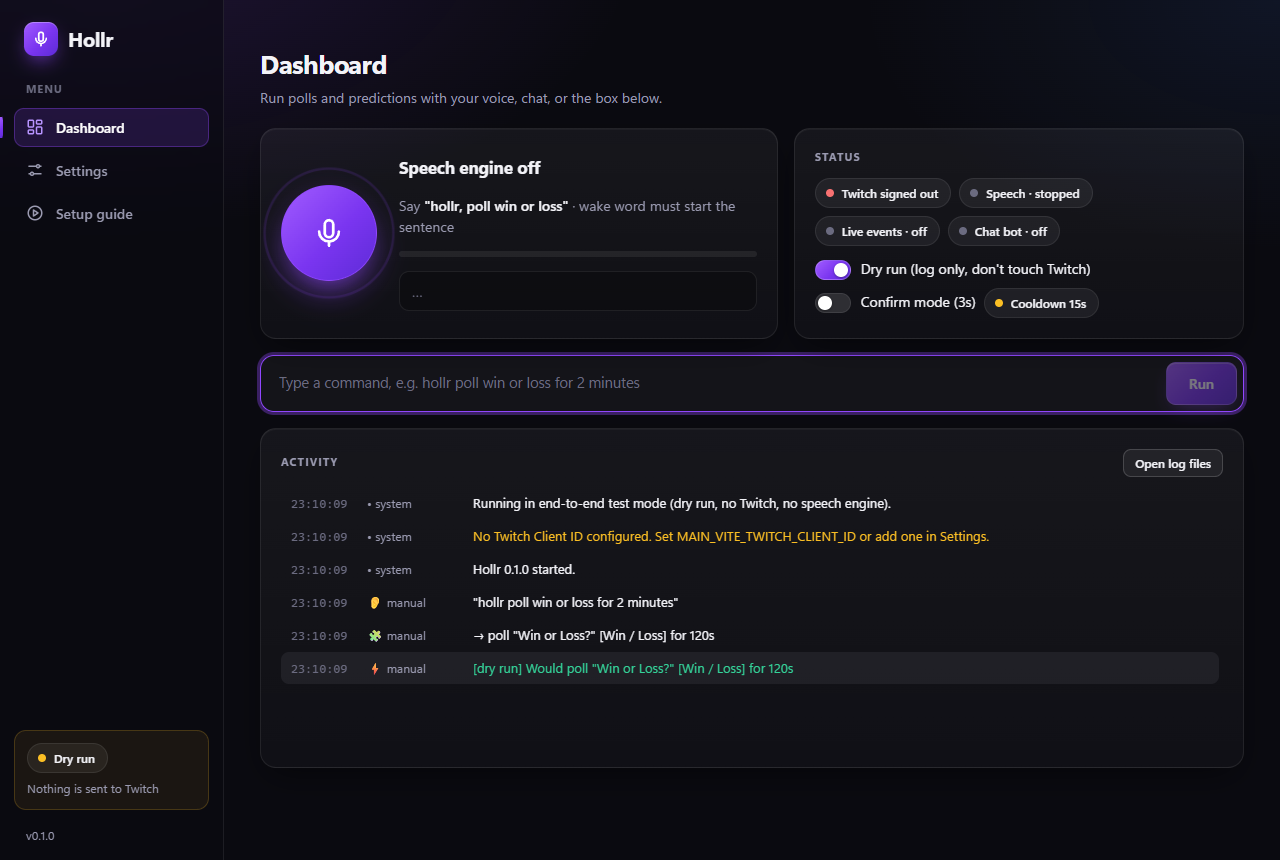
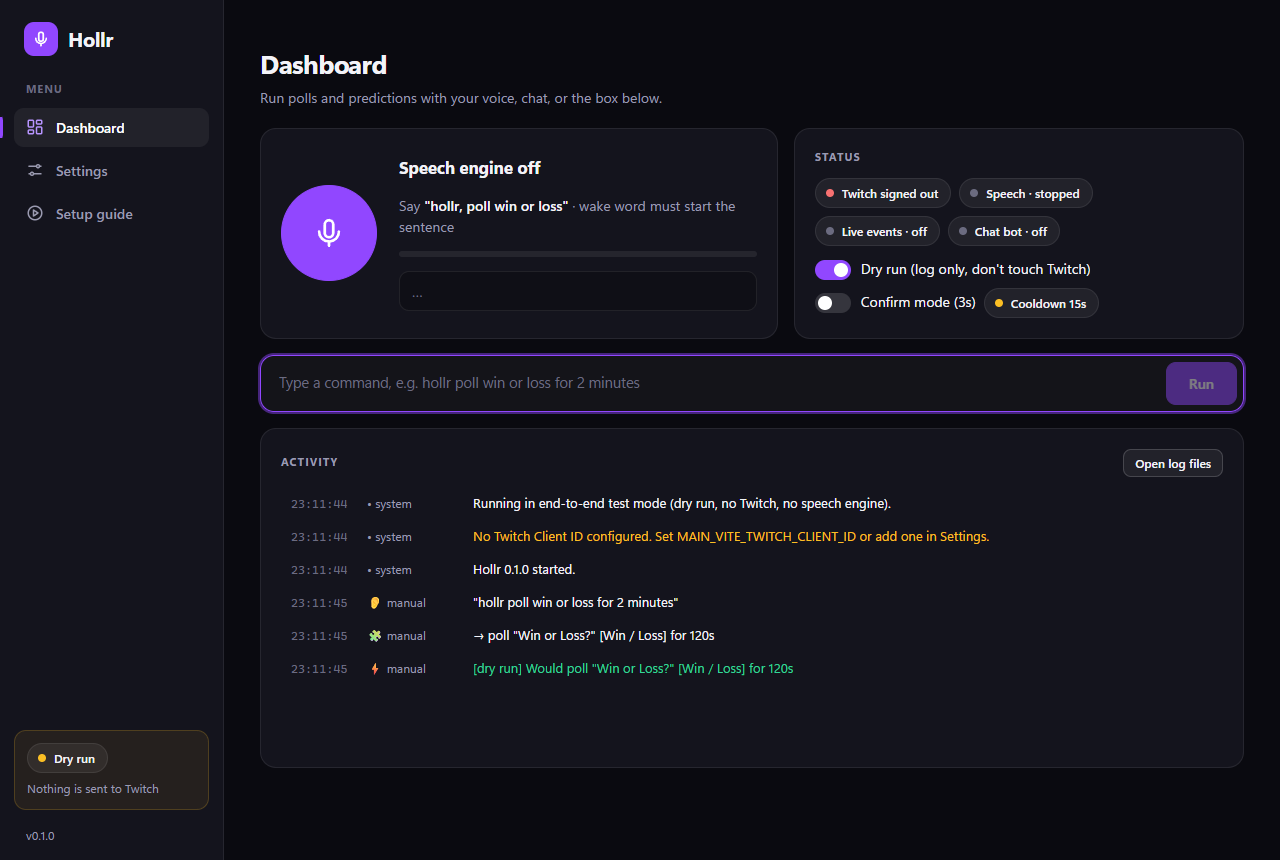
UI: remove glows, flatten surfaces and buttons

diff --git a/src/renderer/app/pages/dashboard/dashboard.page.ts b/src/renderer/app/pages/dashboard/dashboard.page.ts
@@ -136,30 +136,22 @@ import { HollrService } from '../../core/hollr.service';
     .full { grid-column: 1 / -1; }
     .grid > section { min-width: 0; }
     .listen { display: flex; gap: 22px; align-items: center; overflow: hidden; }
-    .listen::before { content: ''; position: absolute; inset: -40% auto auto -10%; width: 340px; height: 340px; border-radius: 50%;
-                      background: radial-gradient(circle, rgba(145,71,255,.18), transparent 65%); opacity: 0; transition: opacity .5s; pointer-events: none; }
-    .listen.live::before { opacity: 1; }
-    .listen.hot::before { background: radial-gradient(circle, rgba(52,211,153,.2), transparent 65%); opacity: 1; }
-    .listen > * { position: relative; }
     .grow { flex: 1; min-width: 0; }
     .say { color: var(--fg); font-weight: 600; }
     .mic-btn { position: relative; display: grid; place-items: center; width: 96px; height: 96px; border-radius: 50%; flex-shrink: 0;
-               border: 1px solid var(--border-strong); background: radial-gradient(circle at 30% 25%, rgba(255,255,255,.12), rgba(255,255,255,.03));
-               color: var(--muted); cursor: pointer; transition: transform .2s var(--ease), color .2s, border-color .2s, box-shadow .3s; }
-    .mic-btn:hover { transform: scale(1.04); color: var(--fg); }
+               border: 1px solid var(--border-strong); background: var(--panel-2);
+               color: var(--muted); cursor: pointer; transition: background .2s, color .2s, border-color .2s; }
+    .mic-btn:hover { color: var(--fg); background: var(--panel-3); }
     .mic-btn:focus-visible { outline: none; box-shadow: var(--ring); }
-    .mic-btn.on { color: #fff; border-color: rgba(145,71,255,.7); background: var(--accent-grad); box-shadow: 0 14px 34px -10px rgba(145,71,255,.9); }
-    .mic-btn.hot { border-color: rgba(52,211,153,.8); background: linear-gradient(135deg, #34d399, #059669); box-shadow: 0 14px 34px -10px rgba(52,211,153,.9); }
-    .ring { position: absolute; inset: -6px; border-radius: 50%; border: 2px solid currentColor; opacity: 0; pointer-events: none; }
-    .mic-btn.on .ring { border-color: rgba(145,71,255,.8); animation: pulse 2.6s var(--ease) infinite; }
-    .mic-btn.hot .ring { border-color: rgba(52,211,153,.9); animation-duration: 1.2s; }
-    @keyframes pulse { 0% { transform: scale(.92); opacity: .7; } 100% { transform: scale(1.35); opacity: 0; } }
+    .mic-btn.on { color: #fff; border-color: var(--accent); background: var(--accent); }
+    .mic-btn.hot { border-color: #10b981; background: #10b981; }
+    .ring { display: none; }
     .transcript { font-size: 15px; min-height: 24px; padding: 8px 12px; border-radius: 10px; background: rgba(0,0,0,.25);
                   border: 1px solid var(--border); white-space: nowrap; overflow: hidden; text-overflow: ellipsis; }
     .transcript.empty { color: var(--faint); }
     .status h3 { margin-bottom: -2px; }
     .status .row { gap: 8px; }
-    .pending { border-color: rgba(251,191,36,.45); background: linear-gradient(180deg, rgba(251,191,36,.1), rgba(251,191,36,.03)); }
+    .pending { border-color: rgba(251,191,36,.45); background: rgba(251,191,36,.06); }
     .logcard { height: 340px; display: flex; flex-direction: column; gap: 10px; }
     .logcard hl-activity-log { flex: 1; min-height: 0; }
     @media (max-width: 860px) { .grid { grid-template-columns: 1fr; } }

diff --git a/src/renderer/styles.css b/src/renderer/styles.css
@@ -16,7 +16,7 @@
   /* Brand + status */
   --accent: #9147ff;
   --accent-2: #b794ff;
-  --accent-grad: linear-gradient(135deg, #a15cff 0%, #7a35f0 55%, #5d2bd6 100%);
+  --accent-grad: #9147ff;
   --green: #34d399;
   --red: #f87171;
   --amber: #fbbf24;
@@ -25,8 +25,8 @@
 
   --radius: 16px;
   --radius-sm: 10px;
-  --shadow: 0 1px 0 rgba(255, 255, 255, 0.04) inset, 0 12px 32px -12px rgba(0, 0, 0, 0.6);
-  --ring: 0 0 0 3px rgba(145, 71, 255, 0.35);
+  --shadow: none;
+  --ring: 0 0 0 2px rgba(145, 71, 255, 0.45);
   --ease: cubic-bezier(0.2, 0.8, 0.2, 1);
   color-scheme: dark;
 }
@@ -39,11 +39,7 @@ html,
 body {
   margin: 0;
   height: 100%;
-  background:
-    radial-gradient(900px 500px at 8% -8%, rgba(145, 71, 255, 0.16), transparent 60%),
-    radial-gradient(700px 420px at 100% 0%, rgba(79, 140, 255, 0.09), transparent 60%),
-    var(--bg);
-  background-attachment: fixed;
+  background: var(--bg);
   color: var(--fg);
   font:
     14px/1.5 'Segoe UI Variable Text',
@@ -116,7 +112,7 @@ a {
 /* Layout helpers */
 .card {
   position: relative;
-  background: linear-gradient(180deg, rgba(255, 255, 255, 0.05), rgba(255, 255, 255, 0.025));
+  background: var(--panel-solid);
   border: 1px solid var(--border);
   border-radius: var(--radius);
   padding: 20px;
@@ -187,18 +183,13 @@ a {
   cursor: default;
 }
 .btn.primary {
-  background: var(--accent-grad);
-  border-color: rgba(255, 255, 255, 0.18);
-  box-shadow:
-    0 8px 20px -8px rgba(145, 71, 255, 0.7),
-    0 1px 0 rgba(255, 255, 255, 0.25) inset;
+  background: var(--accent);
+  border-color: var(--accent);
+  color: #fff;
 }
 .btn.primary:hover:not(:disabled) {
-  background: var(--accent-grad);
-  filter: brightness(1.12);
-  box-shadow:
-    0 12px 26px -8px rgba(145, 71, 255, 0.8),
-    0 1px 0 rgba(255, 255, 255, 0.25) inset;
+  background: #a566ff;
+  border-color: #a566ff;
 }
 .btn.danger {
   background: rgba(248, 113, 113, 0.1);
@@ -283,8 +274,8 @@ input[type='checkbox'] {
   height: 20px;
   margin: 0;
   border-radius: 999px;
-  background: rgba(255, 255, 255, 0.12);
-  border: 1px solid var(--border);
+  background: rgba(255, 255, 255, 0.14);
+  border: 1px solid transparent;
   position: relative;
   cursor: pointer;
   transition:
@@ -301,12 +292,10 @@ input[type='checkbox']::after {
   height: 14px;
   border-radius: 50%;
   background: #fff;
-  box-shadow: 0 1px 3px rgba(0, 0, 0, 0.4);
   transition: transform 0.22s var(--ease);
 }
 input[type='checkbox']:checked {
-  background: var(--accent-grad);
-  border-color: rgba(255, 255, 255, 0.2);
+  background: var(--accent);
 }
 input[type='checkbox']:checked::after {
   transform: translateX(16px);
@@ -340,8 +329,6 @@ input[type='checkbox']:focus-visible {
 }
 .chip.ok::before {
   background: var(--green);
-  box-shadow: 0 0 0 0 rgba(52, 211, 153, 0.6);
-  animation: ping 2.4s infinite;
 }
 .chip.warn::before {
   background: var(--amber);
@@ -349,16 +336,6 @@ input[type='checkbox']:focus-visible {
 .chip.bad::before {
   background: var(--red);
 }
-@keyframes ping {
-  0% {
-    box-shadow: 0 0 0 0 rgba(52, 211, 153, 0.5);
-  }
-  70%,
-  100% {
-    box-shadow: 0 0 0 7px rgba(52, 211, 153, 0);
-  }
-}
-
 /* Banners */
 .banner {
   padding: 12px 16px;

diff --git a/src/renderer/app/app.component.ts b/src/renderer/app/app.component.ts
@@ -69,17 +69,17 @@ interface Banner {
   `,
   styles: `
     .shell { display: grid; grid-template-columns: 224px 1fr; height: 100vh; }
-    nav { display: flex; flex-direction: column; gap: 4px; padding: 20px 14px 16px; background: rgba(10, 10, 16, 0.55);
-          border-right: 1px solid var(--border); backdrop-filter: blur(14px); }
+    nav { display: flex; flex-direction: column; gap: 4px; padding: 20px 14px 16px; background: var(--panel-solid);
+          border-right: 1px solid var(--border); }
     .brand { display: flex; align-items: center; gap: 10px; padding: 2px 10px 22px; }
     .logo { display: grid; place-items: center; width: 34px; height: 34px; border-radius: 10px; color: #fff;
-            background: var(--accent-grad); box-shadow: 0 8px 20px -6px rgba(145, 71, 255, 0.8), 0 1px 0 rgba(255,255,255,.3) inset; }
+            background: var(--accent); }
     .name { font-size: 20px; font-weight: 750; letter-spacing: -0.02em; }
     .section-label { font-size: 10.5px; font-weight: 700; letter-spacing: .12em; text-transform: uppercase; color: var(--faint); padding: 0 12px 6px; }
     nav a { position: relative; display: flex; align-items: center; gap: 12px; color: var(--muted); text-decoration: none;
             padding: 9px 12px; border-radius: 10px; font-weight: 600; transition: background .18s, color .18s; }
     nav a:hover { background: var(--panel-2); color: var(--fg); }
-    nav a.active { background: rgba(145, 71, 255, 0.16); color: #fff; box-shadow: inset 0 0 0 1px rgba(145, 71, 255, 0.35); }
+    nav a.active { background: var(--panel-2); color: #fff; }
     nav a.active svg { color: var(--accent-2); }
     nav a.active::before { content: ''; position: absolute; left: -14px; top: 9px; bottom: 9px; width: 3px; border-radius: 0 3px 3px 0; background: var(--accent-grad); }
     .grow { flex: 1; }

diff --git a/src/renderer/app/components/poll-card.component.ts b/src/renderer/app/components/poll-card.component.ts
@@ -45,10 +45,10 @@ import { HollrService } from '../core/hollr.service';
            background: rgba(0, 0, 0, 0.28); border: 1px solid var(--border); overflow: hidden; font-weight: 600; }
     .bar span { position: relative; }
     .bar span:last-child { color: var(--muted); font-variant-numeric: tabular-nums; font-weight: 500; }
-    .fill { position: absolute; inset: 0 auto 0 0; background: linear-gradient(90deg, rgba(145, 71, 255, 0.55), rgba(145, 71, 255, 0.28));
-            transition: width .6s cubic-bezier(.2,.8,.2,1); border-right: 1px solid rgba(183, 148, 255, 0.6); }
+    .fill { position: absolute; inset: 0 auto 0 0; background: rgba(145, 71, 255, 0.35);
+            transition: width .6s cubic-bezier(.2,.8,.2,1); }
     .winner { border-color: rgba(52, 211, 153, 0.5); }
-    .winner .fill { background: linear-gradient(90deg, rgba(52, 211, 153, 0.5), rgba(52, 211, 153, 0.22)); border-right-color: rgba(52, 211, 153, 0.7); }
+    .winner .fill { background: rgba(52, 211, 153, 0.32); }
   `,
 })
 export class PollCardComponent {
